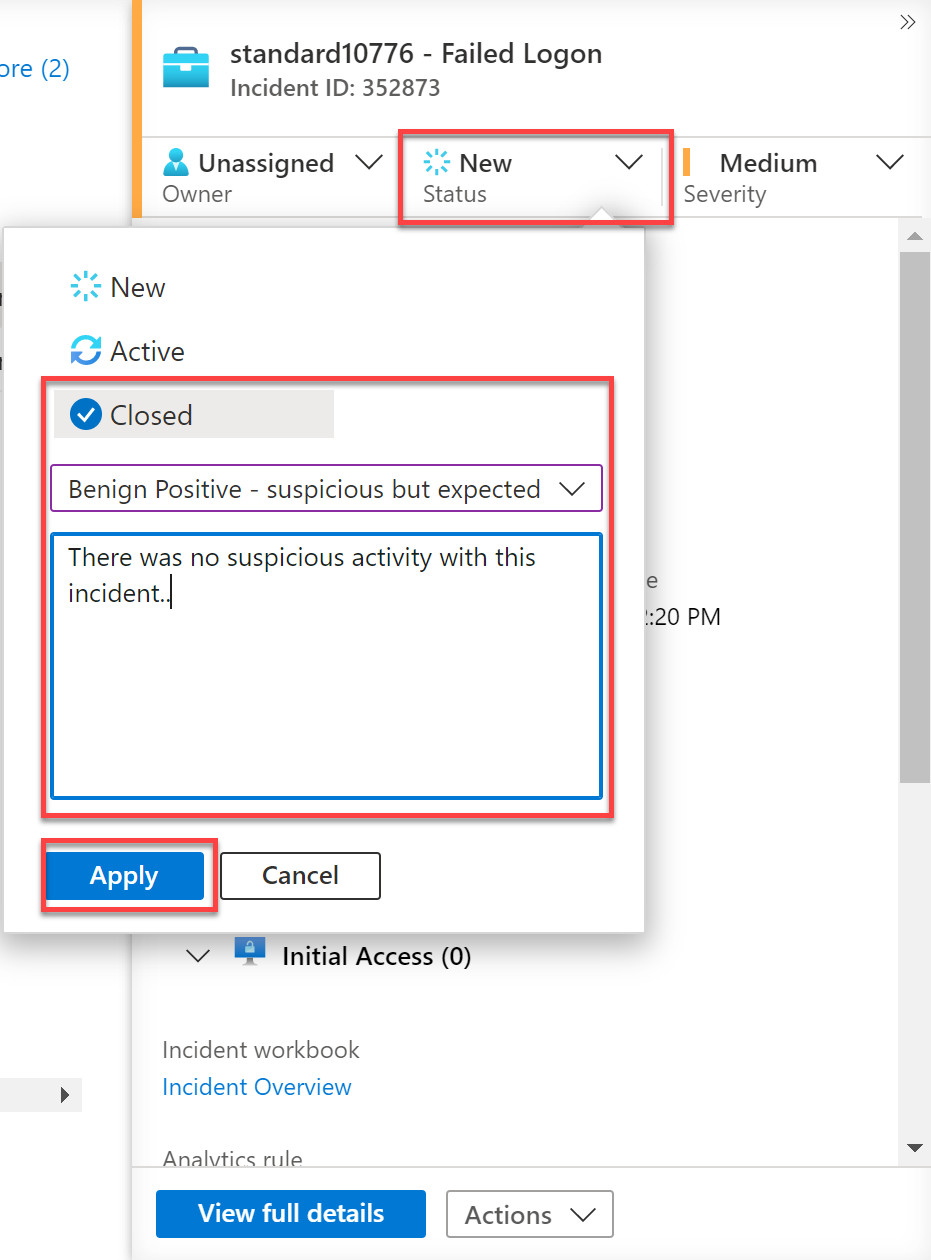
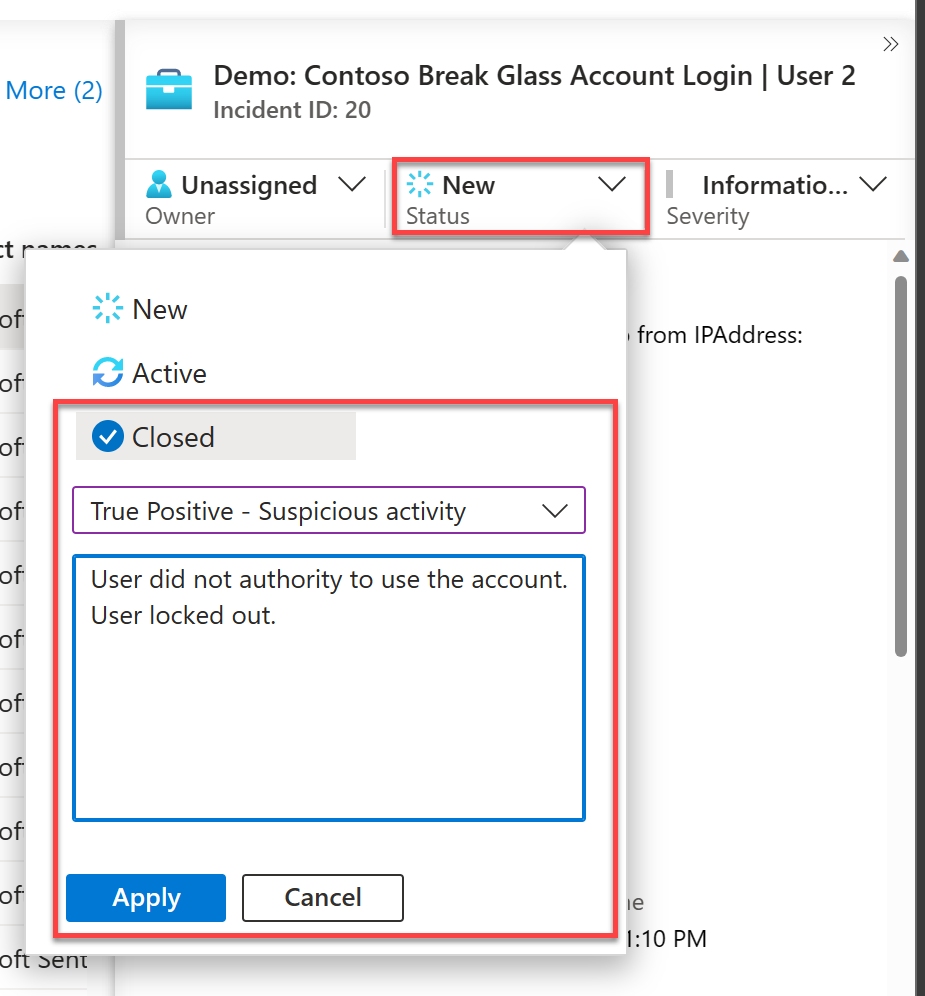
Update Lab04

Changed region(s): [[0.0, 0.0, 1.0, 1.0]]

diff --git a/Labs/Analysts Introduction Workshop/Labs/LAB04/README.MD b/Labs/Analysts Introduction Workshop/Labs/LAB04/README.MD
@@ -1,59 +1,73 @@
-## LAB 04 - Close Incidents and Community
+## LAB 04 - Respond to Incidents
 
-Once an investigation into an incident has been completed and the issue is resolved, the incident requires closing. This is a relatively simple task and sometimes forgotten. Closing incidents aids SOC analytics and built-in machine learning which provides tuning recommendations.
+By now, we should of been able to go through all the logs and gather enough information to move the investigation on to the next stage. Typically an incident most likely involves looking at multiple data sets. For our example we have identified the only other user logged in from an IP address, but we would typically investigate events on the device (if managed by your organisation) and any other logs incoming and out going to that IP address. 
 
+For this lab, the investigation is over, we want to respond by locking out the suspect user account. Historically, this would invole other teams having to perform actions, but we have automation set up and approved for use within your organisation to do the actions for us. 
 
-## Task 1: Close your Incident
+Once this has been completed successfully, the incident requires closing. This is a relatively simple task and sometimes forgotten. Closing incidents aids SOC analytics and built-in machine learning which provides tuning recommendations to help you improve your responses in future.
+
+## Task 1: Run the playbook
 
 1. From within the Microsoft Sentinel blade, under Threat management, select **Incidents**.
+<br><br>![image](../LAB01/screenshots/MicrosoftSentinel-MenuIncidents.png)
 
-![alt text](../LAB01/screenshots/MicrosoftSentinel-MenuIncidents.png)<br><br>
+2. Locate your open incident from before. ("*Demo: Contoso Break Glass Account Login | User XX*", where XX is the number assigned to you.). Once found click **Full Details**
+<br><br>![image](../LAB01/screenshots/SentinelIncident-IncidentList.png)
+> **Note:** If there are no incidents shown, ensure that you have assigned it to you and the incident status is "*New*" or "*Active*"
 
-2. Locate your incident *standard**XX** – Failed Logon* (where “XX” is the number you have been assigned at the start of class).
+3. There are multiple types of Playbook triggers (Alert, Incident and Entity). For this example, we are manually running a playbook with an entity trigger. Select the suspect account within the overview page, select the ellipses "..." (or right-click), then select **"Run playbook"**.
+<br><br>![image](screenshots/SentinelIncidents-SelectRunPlaybook.png)
 
-3. Click on your incident, then review the details in the right hand pane.
+4. Playbooks listed here are ones that you have permissions to run and have the entity trigger. Find the *Demo-Disable_User_Account* playbook, the click **Run**
+<br><br>![image](screenshots/SentinelIncidents-SelectRunPlaybook.png)
 
-4. In the details pane, change the status to **Closed**. This will bring up further fields.
+5. As this is a simple playbook that does not perform any actions other than adding comments, it should run quickly. Navigate back to your incident and select **Activity Log**. You should see that a new comment has been added detailing the output of the automation. Playbooks are fully customizable by your organization to meet your needs, with 100's of prebuilt connectors to Microsoft and third party services.
+
+## Task 2: Close your Incident
+
+1. From within the Microsoft Sentinel blade, under Threat management, select **Incidents**.
+<br><br>![alt text](../LAB01/screenshots/MicrosoftSentinel-MenuIncidents.png)<br><br>
+
+2. Locate and select your open incident from before. ("*Demo: Contoso Break Glass Account Login | User XX*", where XX is the number assigned to you.). 
+
+3. In the details pane, change the status to **Closed**. This will bring up further fields.
 
 5. Change the drop down **Select classification** to one of the following:
- - True Positive - suspicious activity
- - Benign Positive - suspicious but expected
- - False Positive - incorrect alert logic
- - False Positive - incorrect data
+ - True Positive - Suspicious activity
+ - Benign Positive - Suspicious but expected
+ - False Positive - Incorrect alert logic
+ - False Positive - Incorrect data
  - Undetermined
 
 6. Add a comment regarding the closure reason.
 
 7. Click **Apply**.
+<br><br>![alt text](screenshots/Incident-CloseIncident.png)
 
-![alt text](screenshots/Incident-CloseIncident.png)<br><br>
-
-## Task 2: Review Community Content.
+## Task 3: Review Community Content.
 
 1. Within your internet browser, navigate to https://techcommunity.microsoft.com/t5/microsoft-sentinel-blog/become-a-microsoft-sentinel-ninja-the-complete-level-400/ba-p/1246310
 
 > **Note:** This also can be found by searching for Sentinel Ninja Training.
 
 2. This site contains the extensive list of training materials for Microsoft Sentinel. It is worth going through this site and picking out key trainings for your role.
-
-![alt text](screenshots/Ninja%20Training.png)<br><br>
+<br><br>![alt text](screenshots/Ninja%20Training.png)
 
 3. Within your internet browser, navigate to https://github.com/Azure/Azure-Sentinel 
 
 > **Note:** This also can be found by searching for Sentinel GitHub Community
 
 4. This repository contains out of the box detections, exploration queries, hunting queries, workbooks, playbooks and much more to help you get ramped up with Microsoft Sentinel and provide you security content to secure your environment and hunt for threats. Here you can find contributions from the wider community for reuse.
-
-![alt text](screenshots/GitHub-Detections.png)<br><br>
+<br><br>![alt text](screenshots/GitHub-Detections.png)
 
 5. Within your internet browser, navigate to https://docs.microsoft.com/en-us/certifications/exams/sc-200 
 
 > **Note:** This also can be found by searching for SC-200.
 
 6. This will take you to the Microsoft Exam SC-200: Microsoft Security Operations Analyst certification page. Here you can find details of the the exam, as well as learning paths for the exam
+<br><br>![alt text](screenshots/sc-200.png)
 
-![alt text](screenshots/sc-200.png)<br><br>
 
-### Thank you 
+# Thank you 
 
-Thank you for taking the time completing this lab. There is much more to Microsoft Sentinel with regards to tools and capabilities. Please take the time to do further learning and utilize the tools to make your organisation more secure and detect threats with ease.
+Thank you for taking the time completing this lab. This lab gives you an insight to using Sentinel from an Analyst perspective. There is much more to Microsoft Sentinel with regards to tools and capabilities, including powerful machine learning tools, insights and out of the box solutions. Please take the time to do further learning and utilize the tools to make your organisation more secure and detect threats with ease.
